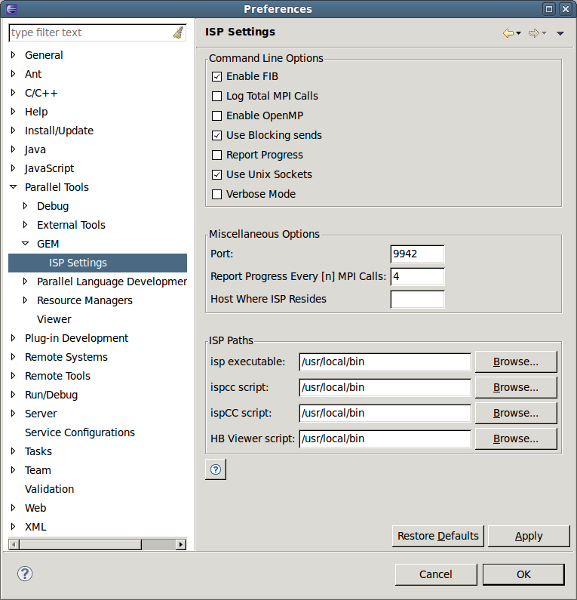
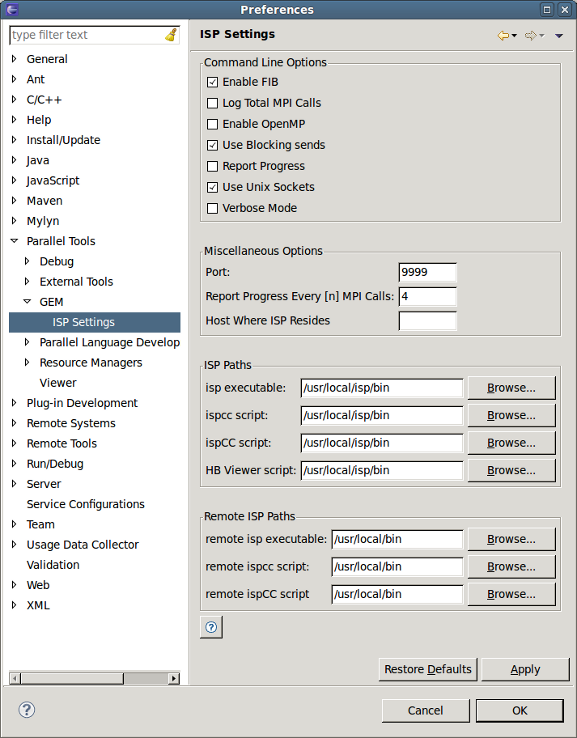
Added content to GEM help plugin for new remote location preferences.

Changed region(s): [[0.0, 0.0, 1.0, 0.99]]

diff --git a/tools/gem/org.eclipse.ptp.gem.help/html/preferences.html b/tools/gem/org.eclipse.ptp.gem.help/html/preferences.html
@@ -134,10 +134,13 @@ GEM has two preference pages:
 <tr><td>Report Progress Every (n) MPI Calls</td> <td>Outputs progress every (n) MPI calls (default is 4).  Note: This is ignored if Report Progress is not checked</td></tr>
 <tr><td>Host Where ISP Resides</td> <td>If ISP is installed on a remote machine, enter the fully qualified hostname here. If ISP is installed on your local machine (e.g. laptop), leave this blank</td></tr>
 <tr><th colspan="2">ISP Paths</th></tr>
-<tr><td>isp executable </td> <td>The location of the <b>isp executable</b> (this is ISP itself)</td></tr>
-<tr><td>ispcc script</td> <td>The location of the <b>ispcc script</b> (for C compilation)</td></tr>
-<tr><td>ispCC script</td> <td>The location of the <b>ispCC script</b> (for C++ compilation)</td></tr>
-<tr><td>HB Viewer script</td> <td>The location of the <b>HB Viewer</b> script (a.k.a. ispUI)</td></tr>
+<tr><td>isp executable </td> <td>The location of the local <b>isp executable</b> (this is ISP itself)</td></tr>
+<tr><td>ispcc script</td> <td>The location of the local <b>ispcc script</b> (for C compilation)</td></tr>
+<tr><td>ispCC script</td> <td>The location of the local <b>ispCC script</b> (for C++ compilation)</td></tr>
+<tr><td>HB Viewer script</td> <td>The location of the <b>HB Viewer</b> script (a.k.a. ispUI). This will only be local.</td></tr>
+<tr><td>remote isp executable </td> <td>The location of the remote <b>isp executable</b> (this is ISP itself)</td></tr>
+<tr><td>remote ispcc script</td> <td>The location of the remote <b>ispcc script</b> (for C compilation)</td></tr>
+<tr><td>remote ispCC script</td> <td>The location of the remote <b>ispCC script</b> (for C++ compilation)</td></tr>
 </table>
 
 <br/><br/>
